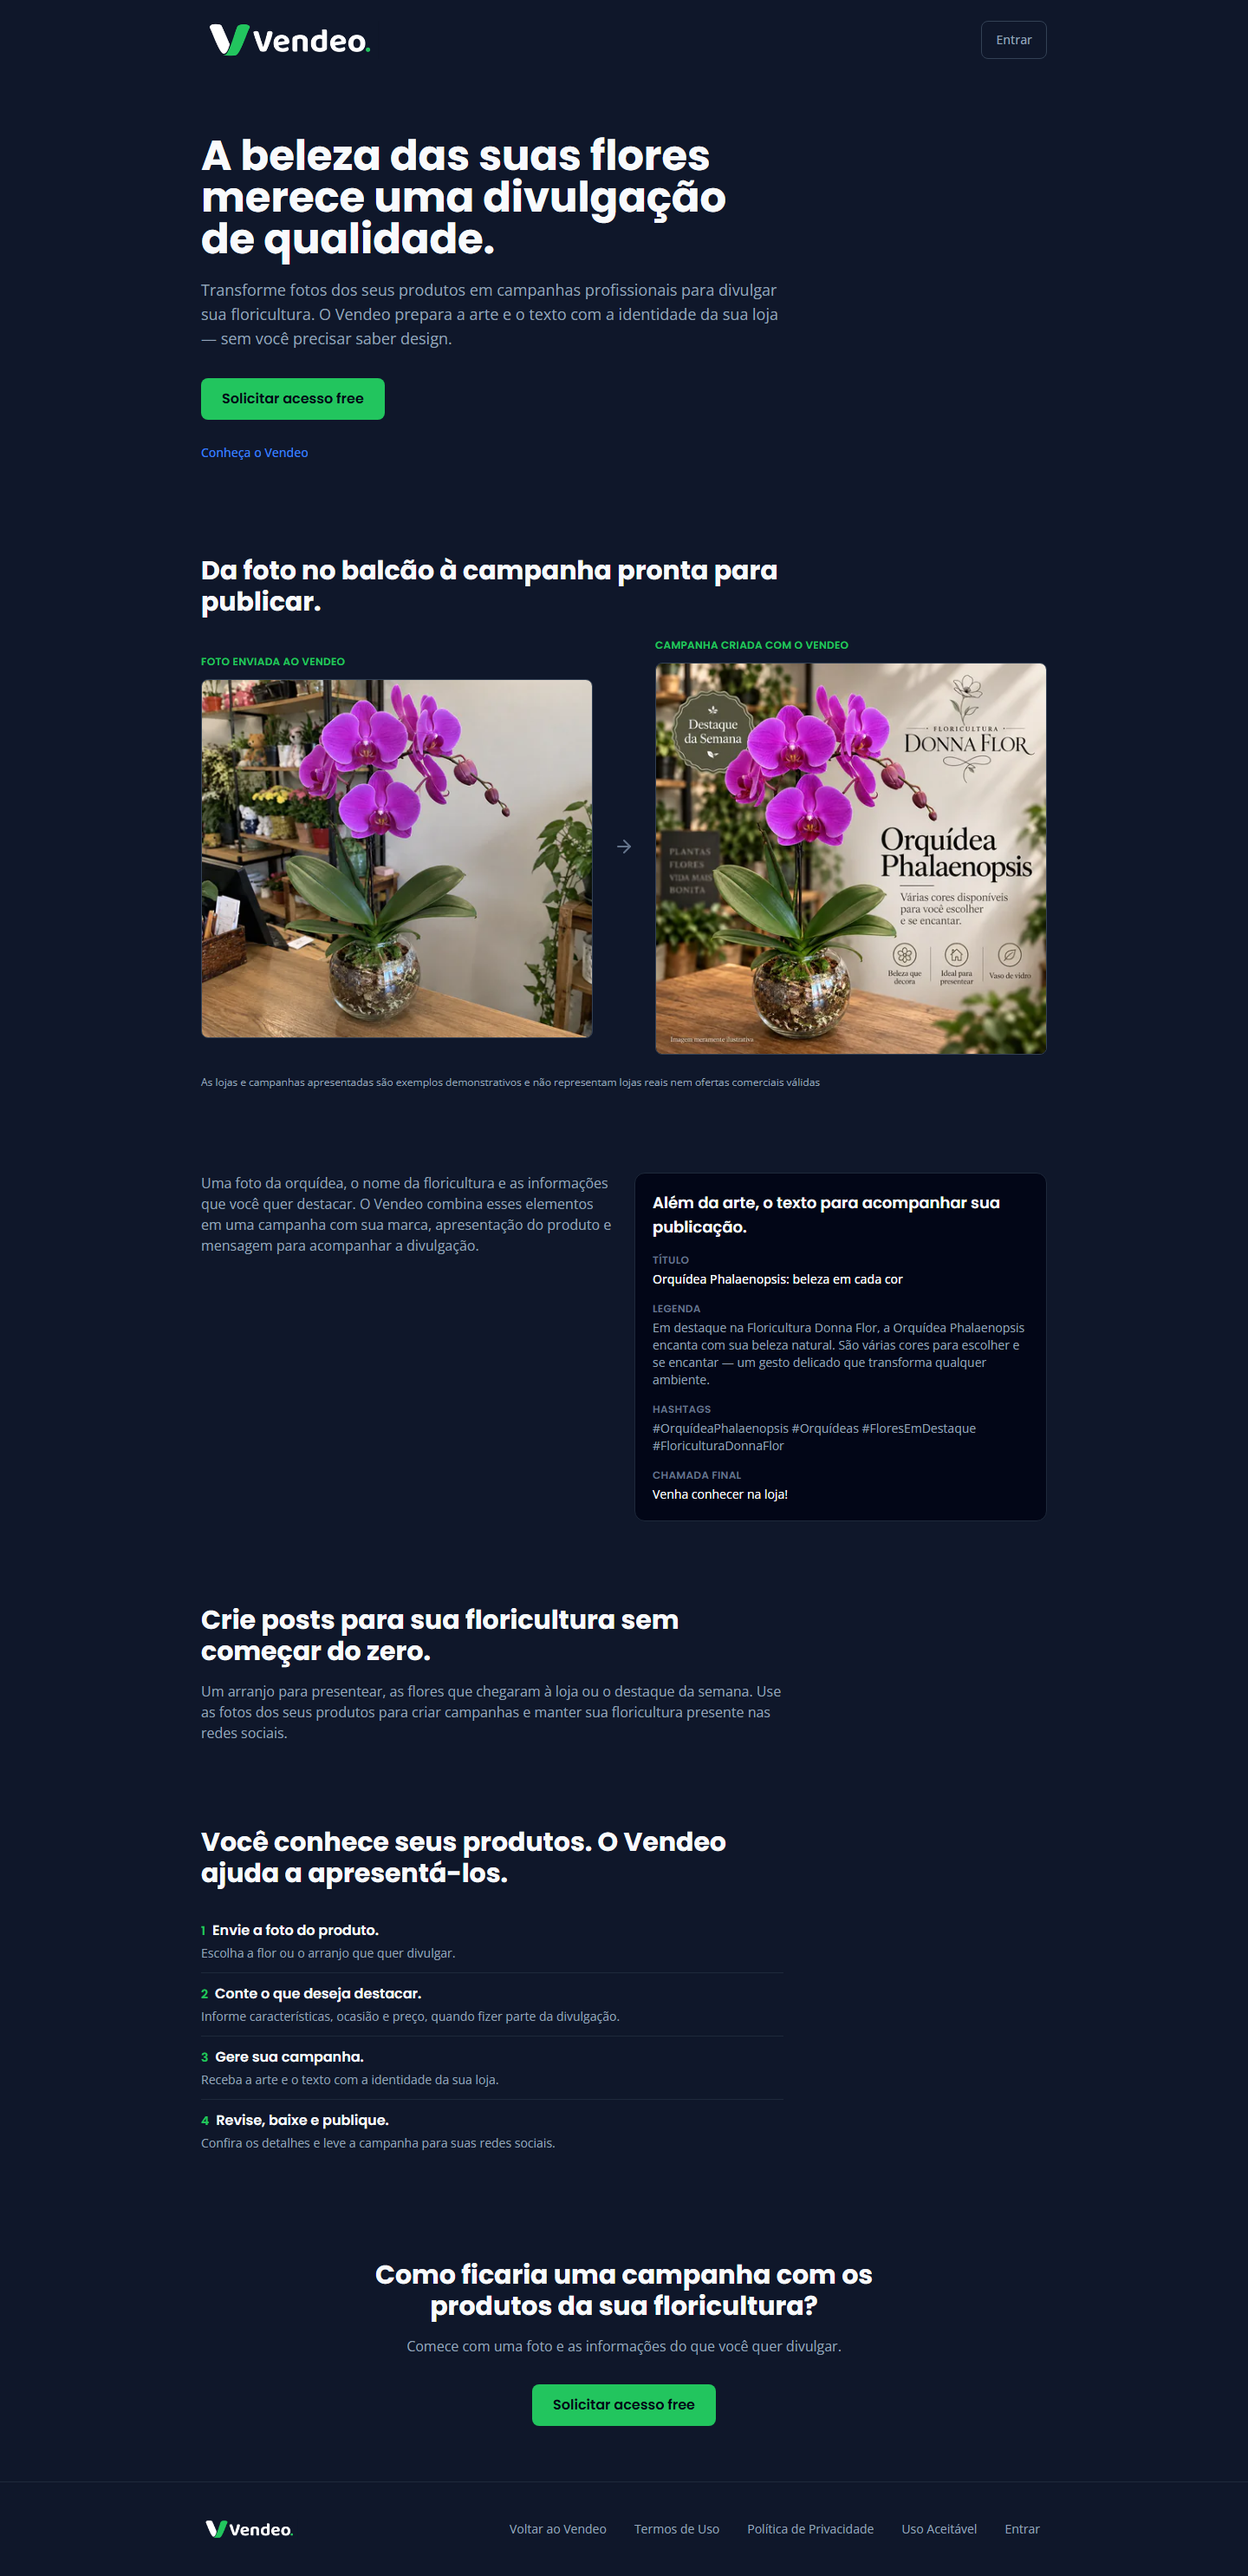
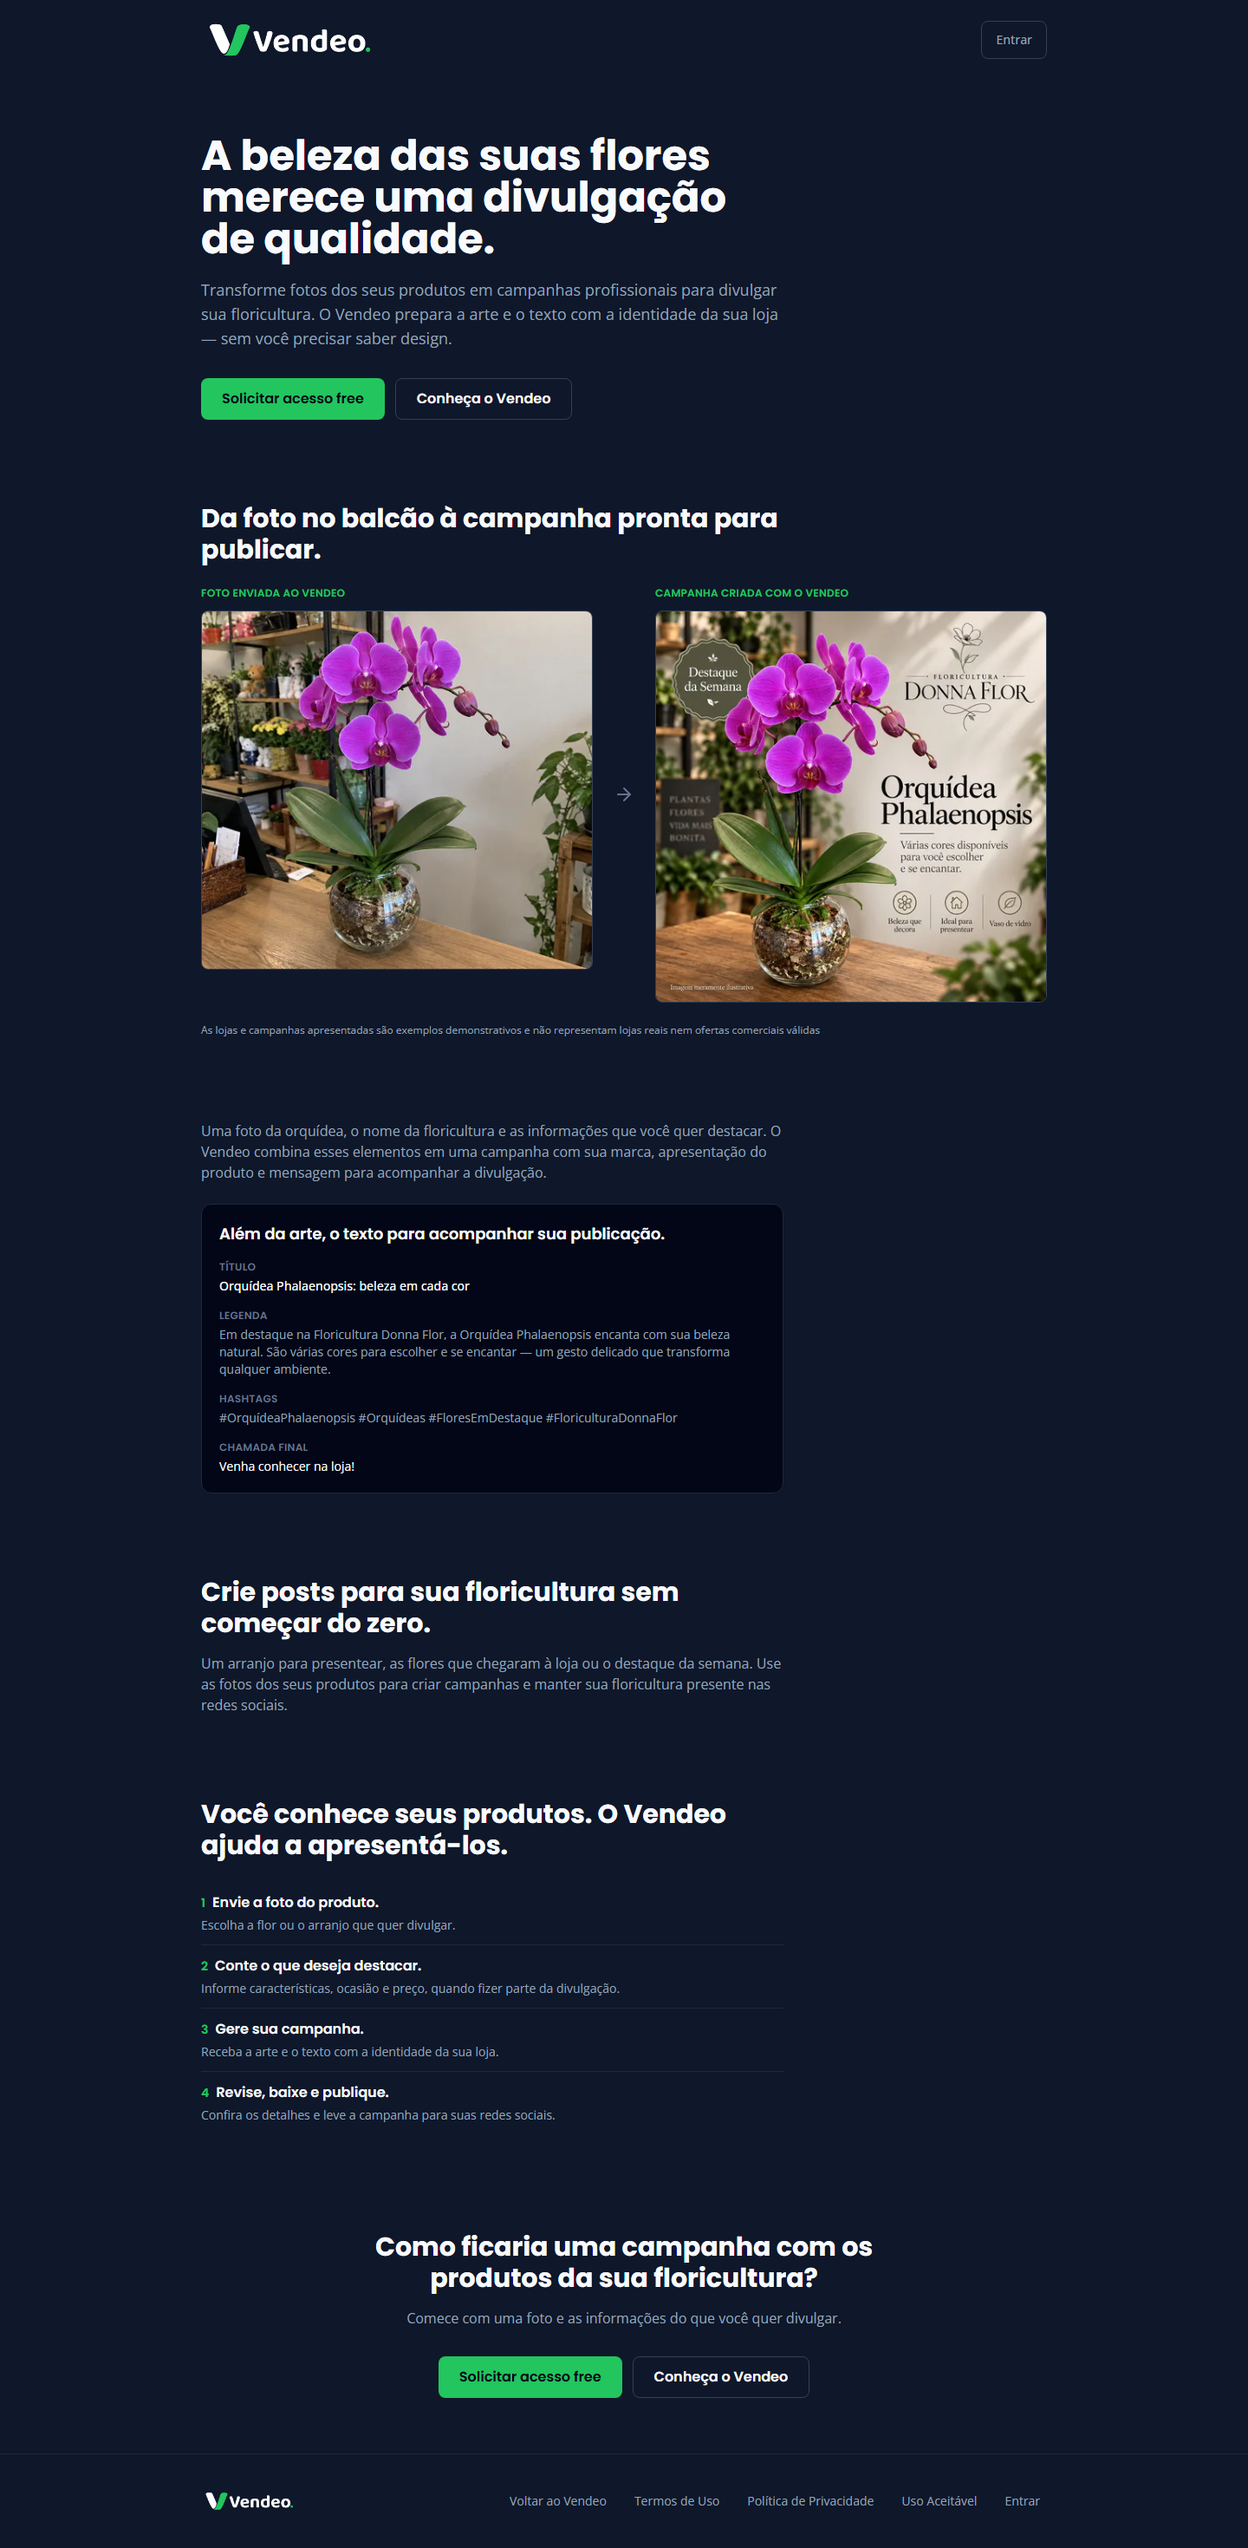
docs(quick-261103-qew): record composition review and refreshed evidence

diff --git a/openspec/changes/pagina-publica-demonstrativa-floriculturas/specs/floriculturas-demonstration-page/spec.md b/openspec/changes/pagina-publica-demonstrativa-floriculturas/specs/floriculturas-demonstration-page/spec.md
@@ -56,7 +56,7 @@ A página SHALL exibir, na mesma seção da explicação, um card com o título 
 
 O card SHALL ser renderizado como texto HTML, não como captura de tela da interface, e SHALL NOT reproduzir botões “Copiar” nem qualquer controle operacional do aplicativo.
 
-No desktop, o card SHALL ficar ao lado do parágrafo de explicação; no mobile, logo abaixo dele. O card SHALL ser visualmente secundário em relação ao par de imagens.
+No desktop e no mobile, o card SHALL ficar em sequência vertical, abaixo do parágrafo de explicação, no mesmo bloco de leitura de largura limitada. O card SHALL ser visualmente secundário em relação ao par de imagens.
 
 #### Scenario: Conteúdo gerado exibido integralmente
 - **WHEN** a página é renderizada
@@ -69,27 +69,52 @@ No desktop, o card SHALL ficar ao lado do parágrafo de explicação; no mobile,
 - **THEN** o card SHALL ser composto por elementos de texto
 - **AND** SHALL NOT conter imagem do texto gerado nem botão “Copiar”
 
-#### Scenario: Card secundário e responsivo
-- **WHEN** a página é exibida em desktop e mobile
-- **THEN** o card SHALL aparecer ao lado do parágrafo no desktop e abaixo dele no mobile
+#### Scenario: Card secundário em coluna única
+- **WHEN** a seção de explicação é exibida
+- **THEN** o card SHALL aparecer abaixo do parágrafo, em desktop e mobile
 - **AND** SHALL NOT competir visualmente com o par foto/campanha
+
+### Requirement: Comparação alinhada pelo topo e leitura em coluna única
+
+Na demonstração, os rótulos SHALL ocupar a mesma linha e as imagens SHALL começar na mesma altura no desktop. A comparação SHALL alinhar pelo topo (`items-start`), preservar as proporções originais e não recortar; a diferença de altura entre a foto e a campanha SHALL aparecer na base.
+
+Na seção de explicação, o parágrafo e o card do texto gerado SHALL ficar em sequência vertical — parágrafo acima, card abaixo — dentro de um mesmo bloco de leitura com largura limitada. O card SHALL NOT se esticar por toda a largura da página.
+
+#### Scenario: Rótulos e imagens alinhados no desktop
+- **WHEN** a demonstração é exibida em desktop
+- **THEN** os dois rótulos SHALL estar na mesma linha
+- **AND** as duas imagens SHALL começar na mesma altura
+- **AND** nenhuma imagem SHALL ser recortada
+
+#### Scenario: Explicação e card em coluna única
+- **WHEN** a seção de explicação é exibida
+- **THEN** o parágrafo SHALL vir antes do card
+- **AND** ambos SHALL estar no mesmo bloco de leitura de largura limitada
+- **AND** o card SHALL NOT ocupar a largura total da página
 
 ### Requirement: Caminho secundário para conhecer o Vendeo
 
-A abertura SHALL oferecer um link secundário “Conheça o Vendeo” apontando para `/`, na mesma aba, sem âncora, de modo a abrir o topo da home.
+A abertura e o encerramento SHALL oferecer o mesmo conjunto de acesso: o CTA principal de aquisição e o link secundário “Conheça o Vendeo” apontando para `/`, na mesma aba, sem âncora, de modo a abrir o topo da home.
 
-O link SHALL ficar abaixo do CTA principal de acesso, mantendo o CTA como ação de maior destaque. O encerramento SHALL manter apenas o CTA de acesso, sem repetir o link secundário. A página SHALL NOT alterar a home nem os CTAs dos demais consumidores.
+No desktop, os dois SHALL ficar lado a lado, com a mesma altura: o CTA principal mantém a superfície verde e o secundário recebe borda e texto com contraste adequado. No mobile, SHALL empilhar com a mesma largura e o mesmo alinhamento.
 
-#### Scenario: Link secundário na abertura
+O link secundário SHALL NOT apontar para `/#acesso` e SHALL NOT alterar a home nem os CTAs dos demais consumidores.
+
+#### Scenario: Conjunto na abertura e no encerramento
 - **WHEN** a página é renderizada
-- **THEN** SHALL existir um link “Conheça o Vendeo” com `href="/"`
-- **AND** SHALL estar posicionado abaixo do CTA principal
-- **AND** SHALL NOT apontar para `/#acesso`
+- **THEN** SHALL existir o conjunto de acesso na abertura
+- **AND** SHALL existir o mesmo conjunto no encerramento
+- **AND** os dois SHALL conter “Conheça o Vendeo” com `href="/"`
 
-#### Scenario: Encerramento sem link secundário
-- **WHEN** o bloco de encerramento é revisado
-- **THEN** SHALL conter apenas o CTA de acesso
-- **AND** SHALL NOT repetir o link “Conheça o Vendeo”
+#### Scenario: Lado a lado no desktop e empilhado no mobile
+- **WHEN** a página é exibida em desktop
+- **THEN** CTA principal e link secundário SHALL ficar lado a lado com a mesma altura
+- **AND** em mobile SHALL empilhar com a mesma largura e alinhamento
+
+#### Scenario: Link secundário não usa a âncora de acesso
+- **WHEN** o link “Conheça o Vendeo” é inspecionado
+- **THEN** o destino SHALL ser `/`
+- **AND** SHALL NOT ser `/#acesso`
 
 ### Requirement: Aviso demonstrativo único e discreto
 

diff --git a/openspec/changes/pagina-publica-demonstrativa-floriculturas/design.md b/openspec/changes/pagina-publica-demonstrativa-floriculturas/design.md
@@ -81,15 +81,21 @@ Conduta adotada:
 
 Se uma medição futura, em rede lenta ou outro viewport, apontar a campanha (ou a foto) como LCP, a prioridade deve ser reavaliada com base nessa medição — não na área aparente.
 
-### D7. Dois CTAs, mesmo fluxo
+**Caveat:** os tempos locais observados (dezenas de ms) e os `transferSize` do Chrome local **não são resultado de PageSpeed em produção**. Servem apenas para decidir prioridade de carregamento no HTML; qualquer afirmação pública de performance exigirá medição em produção.
 
-A contradição anterior (CTA só no encerramento) é resolvida com dois usos do mesmo `AcquisitionCta`: um imediatamente após a abertura e outro no encerramento. `GoogleButton` não usa `id` fixo, então duas instâncias não colidem. Com a flag desligada, ambos apontam para `/#acesso`; com a flag ligada, ambos oferecem Google e e-mail.
+### D7. Dois CTAs agrupados, mesmo fluxo
 
-Na abertura, abaixo do CTA principal, entra o link secundário “Conheça o Vendeo” → `/` (mesma aba, topo da home). O encerramento mantém apenas o CTA de acesso. O link é renderizado ao lado do `AcquisitionCta`, sem nova prop e sem alterar os demais consumidores.
+O conjunto de acesso é composto pelo CTA principal e pelo link secundário “Conheça o Vendeo” → `/` (mesma aba, topo da home). No desktop ficam lado a lado, com a mesma altura de 48 px: o principal mantém a superfície verde; o secundário usa borda `border-border-light` e texto `text-text-primary`. No mobile empilham com a mesma largura.
+
+O conjunto se repete na abertura e no encerramento. A largura dos filhos é controlada pelo container (`[&_a]:w-full sm:[&_a]:w-auto`), sem alterar o `AcquisitionCta` nem a home.
 
 ### D7.1 Texto gerado em card HTML
 
-A entrega não é só a arte. O texto gerado pela campanha (título, legenda, hashtags e chamada final) é exibido em um card na mesma seção da explicação — ao lado no desktop, abaixo no mobile. É texto HTML, não captura de interface, e não reproduz os botões “Copiar”: a página demonstra a entrega, não opera o aplicativo. O card é visualmente secundário em relação ao par antes/depois.
+A entrega não é só a arte. O texto gerado pela campanha (título, legenda, hashtags e chamada final) é exibido em um card **abaixo** do parágrafo de explicação, no mesmo bloco de leitura com largura limitada (`max-w-2xl`). É texto HTML, não captura de interface, e não reproduz os botões “Copiar”: a página demonstra a entrega, não opera o aplicativo. O card é visualmente secundário em relação ao par antes/depois e não se estica por toda a largura da página.
+
+### D7.2 Comparação alinhada pelo topo
+
+A demonstração usa `items-start`: rótulos na mesma linha e imagens começando na mesma altura no desktop. A foto mantém a proporção original e a campanha permanece 1:1 com `contain`; a diferença de altura aparece na base, sem recorte. A seta decorativa usa `self-center` para ficar centralizada na altura da linha.
 
 ### D8. `accessHref` opcional no `AcquisitionCta`
 

diff --git a/.planning/quick/261103-qew-pagina-publica-demonstrativa-para-floric/261103-qew-SUMMARY.md b/.planning/quick/261103-qew-pagina-publica-demonstrativa-para-floric/261103-qew-SUMMARY.md
@@ -39,16 +39,16 @@ extensões aprovadas (card do texto gerado e link “Conheça o Vendeo”).
 ## LCP — hipótese refutada por medição
 
 - Hipótese inicial: campanha como LCP no desktop por área.
-- **Medição no navegador (Chrome headless, CDP):** LCP = `h1` em **desktop 1440×900** (91.635 px², ~88 ms) e em **mobile 390×844** (38.982 px², ~56 ms), com fontes locais em `font-display: swap`.
+- **Medição no navegador (Chrome headless, CDP, cache limpo):** LCP = `h1` em **desktop 1440×900** (91.635 px², ~748 ms) e em **mobile 390×844** (38.982 px², ~72 ms). O `h1` vence nos dois tamanhos.
 - **Ajuste aplicado:** removido `fetchPriority="high"` da campanha; ambas as imagens permanecem `loading="eager"`, nenhuma com `lazy`.
+- **Caveat:** os tempos locais e os `transferSize` do Chrome local **não são PageSpeed de produção** e não devem ser usados como métrica pública. A medição serve apenas para decidir prioridade no HTML.
 - Evidência: `evidence/lcp-measurement.json`.
-- Observação: a segunda medição usou o perfil de Chrome com cache já aquecido; os `transferSize` das imagens aparecem como ~300 B. Os pesos acima são os tamanhos reais dos arquivos.
 
 ## Gates
 
 | Gate | Resultado |
 |---|---|
-| Suíte focada + regressão de landing/SEO | **161/161** em 12 arquivos |
+| Suíte focada + regressão de landing/SEO | **161/161** em 12 arquivos; após os ajustes de composição, **105/105** nos 6 arquivos afetados |
 | Typecheck (`tsc -p tsconfig.typecheck.json --noEmit`) | **0 erros** |
 | Lint (`eslint .`) | exit **0** (sem cobertura de TypeScript — limitação preexistente) |
 | Build (`npm run build`) | **0**; `/floriculturas` = 2,82 kB / 173 kB; shared 102 kB |
@@ -58,7 +58,13 @@ extensões aprovadas (card do texto gerado e link “Conheça o Vendeo”).
 
 ## Composição entregue
 
-Header → abertura (H1 + texto + CTA + link “Conheça o Vendeo”) → demonstração (rótulos, foto, seta, campanha, aviso único) → explicação + card do texto gerado (título, legenda, hashtags, chamada final) → segundo bloco → funcionamento em 4 passos → encerramento com CTA → rodapé.
+Header → abertura (H1 + texto + **conjunto de acesso**: CTA verde + “Conheça o Vendeo” com borda, lado a lado no desktop e empilhados no mobile) → demonstração (rótulos na mesma linha, imagens alinhadas pelo topo, seta centralizada, aviso único) → explicação + card do texto gerado em coluna única (`max-w-2xl`) → segundo bloco → funcionamento em 4 passos → encerramento com o mesmo conjunto de acesso → rodapé.
+
+Medições de layout confirmadas no navegador:
+
+- Botões com 48 px de altura nos dois conjuntos (desktop) e 342 px de largura no mobile.
+- Rótulos da comparação em `y=676` e imagens iniciando em `y=704/705` (diferença de 1 px por borda), sem recorte e sem overflow horizontal.
+- Card do texto gerado com 443 px de largura no desktop, abaixo do parágrafo.
 
 ## Evidências
 

diff --git a/.planning/quick/261103-qew-pagina-publica-demonstrativa-para-floric/261103-qew-COPY.md b/.planning/quick/261103-qew-pagina-publica-demonstrativa-para-floric/261103-qew-COPY.md
@@ -22,12 +22,12 @@ supersedes: versão anterior desta quick (não usar a copy antiga)
 **Abertura**
 > Transforme fotos dos seus produtos em campanhas profissionais para divulgar sua floricultura. O Vendeo prepara a arte e o texto com a identidade da sua loja — sem você precisar saber design.
 
-**CTA #1** — componente `AcquisitionCta` (`align="responsive"`)
+**CTA #1** — conjunto de acesso: `Solicitar acesso free` (verde) + `Conheça o Vendeo` (borda), lado a lado no desktop, empilhados no mobile.
 
 **Link secundário**
 > Conheça o Vendeo
 
-→ `/` (mesma aba, topo da home). Abaixo do CTA principal; sem repetição no encerramento.
+→ `/` (mesma aba, topo da home). Mesmo conjunto repetido no encerramento.
 
 ### 1.2 Demonstração
 
@@ -87,7 +87,7 @@ Conteúdo exato, em HTML (sem botões “Copiar”, sem captura de interface):
 **Apoio**
 > Comece com uma foto e as informações do que você quer divulgar.
 
-**CTA #2** — mesmo `AcquisitionCta` do CTA #1 (mesmo fluxo de acesso)
+**CTA #2** — mesmo conjunto de acesso do CTA #1 (mesmo fluxo, mesma composição, centralizado no desktop)
 
 ### 1.7 Rodapé
 
@@ -110,14 +110,15 @@ Sem segundo aviso demonstrativo (o aviso fica somente junto ao exemplo).
 
 ### Desktop (≥1024px)
 - Container `max-w-5xl px-6`; coluna de leitura `max-w-2xl` para H1, textos e passos.
-- Abertura: texto à esquerda, CTA #1 logo abaixo e o link “Conheça o Vendeo” em seguida; sem imagem no hero (a demonstração é o bloco seguinte).
+- Abertura: texto à esquerda, conjunto de acesso logo abaixo (CTA verde + “Conheça o Vendeo” com borda, lado a lado); sem imagem no hero.
+- Demonstração: alinhada pelo topo — rótulos na mesma linha e imagens começando na mesma altura; a diferença de altura aparece na base, sem recorte.
 - Demonstração: duas colunas `[minmax(0,1fr)_auto_minmax(0,1fr)]` com `gap-6`, seta `ArrowRight` (24px) no centro. Cada coluna ≈ 452px.
   - Esquerda: foto em proporção original (1312×1199 ≈ 1,094:1), `rounded-lg border border-border-light`.
   - Direita: campanha 1:1 em caixa `aspect-square` com `object-contain` (sem corte).
   - Rótulos acima de cada imagem (`text-xs uppercase tracking-wide text-accent-green`); aviso abaixo do par em `text-xs text-text-secondary`, `max-w-3xl`.
-- Explicação e segundo bloco: `max-w-2xl`, `text-base text-text-secondary`.
+- Explicação e card: sequência vertical (parágrafo acima, card abaixo), ambos em `max-w-2xl`; o card não se estica pela largura da página.
 - Funcionamento: `ol` com 4 itens, mesmo padrão da home (número em `accent-green`, título `font-heading`, descrição `text-sm`), separadores `border-b border-border`.
-- Encerramento: centralizado, `max-w-2xl`, CTA #2 centralizado.
+- Encerramento: centralizado, `max-w-2xl`, mesmo conjunto de acesso do início.
 - Rodapé: borda superior, links em `text-sm`.
 
 ### Mobile (<640px)
